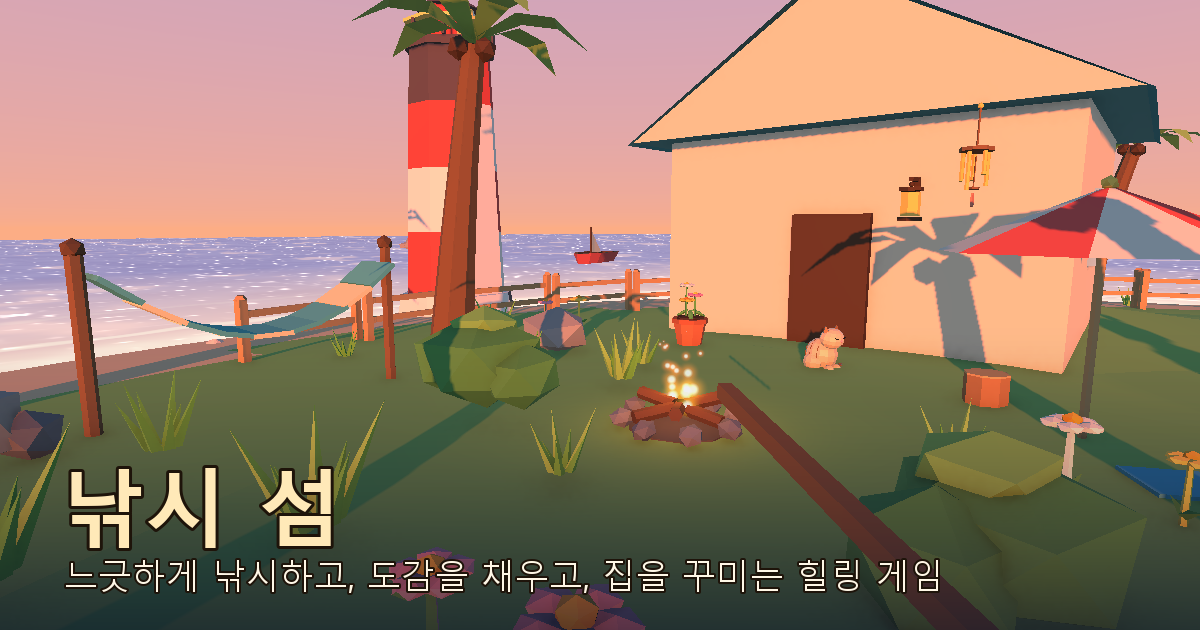
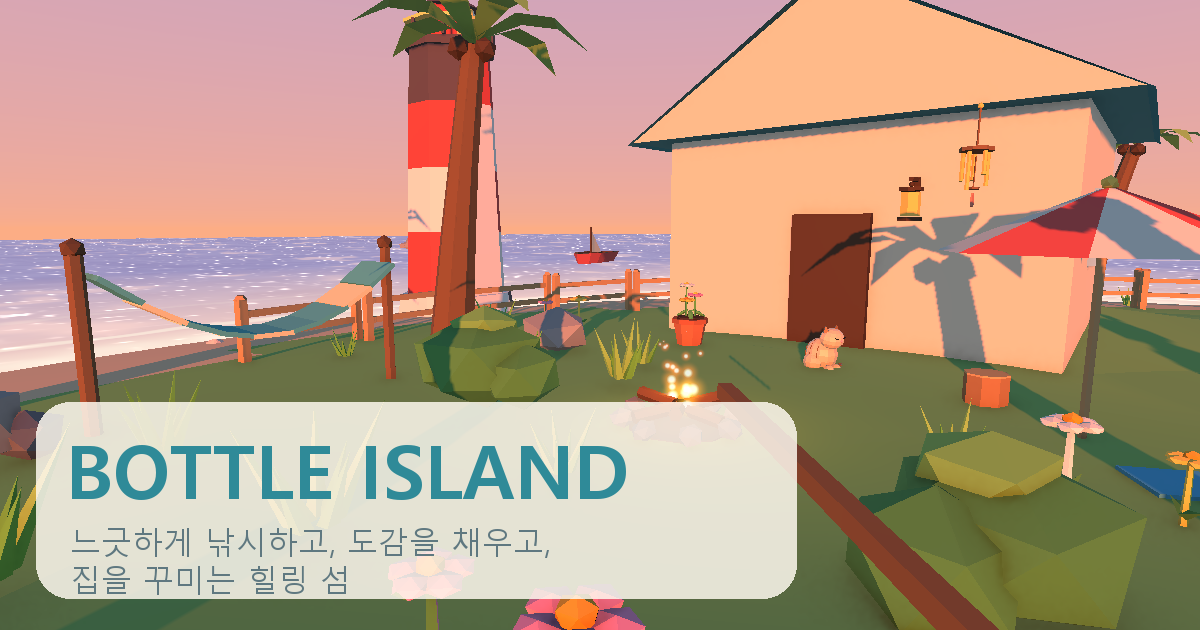
feat: rename to BOTTLE ISLAND, healing-tone web page, loading overlay until first frames (step 36)

diff --git a/fishing-game/fish game/Assets/WebGLTemplates/FishingIsland/index.html b/fishing-game/fish game/Assets/WebGLTemplates/FishingIsland/index.html
@@ -4,24 +4,32 @@
     <meta charset="utf-8">
     <meta http-equiv="Content-Type" content="text/html; charset=utf-8">
     <meta name="viewport" content="width=device-width, initial-scale=1.0">
-    <title>낚시 섬 · 힐링 낚시 게임</title>
-    <meta name="description" content="한적한 섬에서 느긋하게 낚시하는 힐링 게임. 물고기를 낚고, 도감을 채우고, 오두막을 꾸며 보세요. 브라우저에서 바로 플레이(PC).">
+    <title>BOTTLE ISLAND · 힐링 낚시 게임</title>
+    <meta name="description" content="바다 위 작은 섬에서 느긋하게 낚시하는 힐링 게임. 물고기를 낚고, 도감을 채우고, 오두막을 꾸며 보세요. 브라우저에서 바로 플레이(PC).">
     <meta property="og:type" content="website">
-    <meta property="og:title" content="낚시 섬 · 힐링 낚시 게임">
-    <meta property="og:description" content="한적한 섬에서 느긋하게 낚시하는 힐링 게임. 브라우저에서 바로 플레이(PC).">
+    <meta property="og:title" content="BOTTLE ISLAND · 힐링 낚시 게임">
+    <meta property="og:description" content="바다 위 작은 섬에서 느긋하게 낚시하는 힐링 게임. 브라우저에서 바로 플레이(PC).">
     <meta property="og:image" content="https://fishing-game-web.vercel.app/TemplateData/preview.png">
     <meta name="twitter:card" content="summary_large_image">
     <link rel="shortcut icon" href="TemplateData/favicon.ico">
+    <link rel="preconnect" href="https://fonts.googleapis.com">
+    <link rel="preconnect" href="https://fonts.gstatic.com" crossorigin>
+    <link href="https://fonts.googleapis.com/css2?family=Fredoka:wght@500;600;700&family=Gowun+Dodum&family=Jua&display=swap" rel="stylesheet">
     <link rel="stylesheet" href="TemplateData/style.css">
   </head>
   <body>
+    <div id="sun"></div>
+    <div class="cloud c1"></div><div class="cloud c2"></div><div class="cloud c3"></div>
     <main id="page">
-      <h1 id="title">낚시 섬</h1>
+      <header id="head">
+        <h1 id="title">BOTTLE ISLAND</h1>
+        <p id="subtitle">느긋하게 낚시하고, 도감을 채우고, 집을 꾸미는 힐링 섬</p>
+      </header>
       <div id="unity-container">
         <canvas id="unity-canvas" width=1280 height=720 tabindex="-1"></canvas>
         <div id="unity-loading-bar">
           <div id="loading-card">
-            <div id="loading-title">낚시 섬으로 가는 중…</div>
+            <div id="loading-title">섬으로 가는 중…</div>
             <div id="unity-progress-bar-empty"><div id="unity-progress-bar-full"></div></div>
             <div id="loading-tip">처음엔 조금 걸려요(약 20MB). 잠시만 기다려 주세요.</div>
           </div>
@@ -29,14 +37,18 @@
         <div id="unity-warning"> </div>
       </div>
       <div id="controls">
-        <span><b>클릭</b> 시작</span><span><b>WASD</b> 이동</span><span><b>마우스</b> 시점</span><span><b>왼쪽 클릭</b> 낚시</span>
-        <span><b>1·2·3</b> 미끼</span><span><b>E</b> 말 걸기·줍기·배</span><span><b>Tab</b> 도감</span><span><b>P</b> 사진</span><span><b>M</b> 소리</span>
+        <span class="chip c-mint"><b>클릭</b> 시작</span><span class="chip c-peach"><b>WASD</b> 이동</span><span class="chip c-lemon"><b>마우스</b> 시점</span><span class="chip c-sky"><b>왼쪽 클릭</b> 낚시</span>
+        <span class="chip c-mint"><b>1·2·3</b> 미끼</span><span class="chip c-peach"><b>E</b> 말 걸기·줍기·배</span><span class="chip c-lemon"><b>Tab</b> 도감</span><span class="chip c-sky"><b>P</b> 사진</span><span class="chip c-mint"><b>M</b> 소리</span>
         <button id="unity-fullscreen-button" type="button">전체 화면</button>
       </div>
       <footer id="credits">BGM: monume · 글꼴: 나눔고딕(OFL) · 저장은 이 브라우저에 자동으로 돼요</footer>
     </main>
+    <svg id="waves" viewBox="0 0 1440 120" preserveAspectRatio="none" aria-hidden="true">
+      <path d="M0,60 C240,110 480,10 720,60 C960,110 1200,10 1440,60 L1440,120 L0,120 Z" fill="#9fdbe8" opacity=".55"/>
+      <path d="M0,80 C260,40 520,110 780,75 C1040,40 1240,100 1440,70 L1440,120 L0,120 Z" fill="#7cc8da" opacity=".5"/>
+    </svg>
     <div id="desktop-only" hidden>
-      <h2>낚시 섬</h2>
+      <h2>BOTTLE ISLAND</h2>
       <p>이 게임은 <b>PC(키보드와 마우스)</b>에서 플레이할 수 있어요.<br>컴퓨터의 브라우저로 이 주소를 열어 주세요.</p>
     </div>
     <script>
@@ -51,9 +63,9 @@
         var div = document.createElement('div');
         div.innerHTML = msg;
         warningBanner.appendChild(div);
-        if (type == 'error') div.style = 'background: red; padding: 10px; color: white;';
+        if (type == 'error') div.style = 'background: #e8584d; padding: 10px; color: white; border-radius: 10px;';
         else {
-          if (type == 'warning') div.style = 'background: yellow; padding: 10px;';
+          if (type == 'warning') div.style = 'background: #ffe9a8; padding: 10px; border-radius: 10px; color: #5a4220;';
           setTimeout(function() {
             warningBanner.removeChild(div);
             updateBannerVisibility();
@@ -64,7 +76,7 @@
 
       // 화면 크기에 맞춰 16:9 상자로 키움(최대 1600x900). 게임 안 글자·칸은 1280x720 기준으로 만들었어요.
       function fit() {
-        var w = Math.min(window.innerWidth - 24, (window.innerHeight - 150) * 16 / 9, 1600);
+        var w = Math.min(window.innerWidth - 24, (window.innerHeight - 210) * 16 / 9, 1600);
         w = Math.max(w, 480);
         canvas.style.width = w + "px";
         canvas.style.height = (w * 9 / 16) + "px";
@@ -101,7 +113,13 @@
           productVersion: {{{ JSON.stringify(PRODUCT_VERSION) }}},
           showBanner: unityShowBanner,
         };
-        document.querySelector("#unity-loading-bar").style.display = "flex";
+        var bar = document.querySelector("#unity-loading-bar");
+        bar.style.display = "flex";
+
+        // 게임이 실제로 몇 프레임 그려진 뒤(게임이 FG_Ready로 알려 줌)에 불러오는 화면을 걷는다 → 까만 첫 화면이 보이지 않게. 못 받아도 25초 뒤엔 걷음.
+        var hidden = false;
+        function hideLoading() { if (hidden) return; hidden = true; bar.classList.add("done"); setTimeout(function () { bar.style.display = "none"; }, 700); }
+        window.fgGameReady = hideLoading;
 
         var script = document.createElement("script");
         script.src = loaderUrl;
@@ -109,8 +127,10 @@
           createUnityInstance(canvas, config, (progress) => {
             document.querySelector("#unity-progress-bar-full").style.width = 100 * progress + "%";
           }).then((unityInstance) => {
-            document.querySelector("#unity-loading-bar").style.display = "none";
+            document.querySelector("#loading-title").textContent = "거의 다 왔어요…";
+            document.querySelector("#loading-tip").textContent = "섬을 꾸미는 중이에요.";
             document.querySelector("#unity-fullscreen-button").onclick = () => { unityInstance.SetFullscreen(1); };
+            setTimeout(hideLoading, 25000);
           }).catch((message) => {
             document.querySelector("#loading-title").textContent = "게임을 불러오지 못했어요";
             document.querySelector("#loading-tip").textContent = "페이지를 새로고침하거나, 최신 크롬·엣지·파이어폭스로 열어 주세요. (" + message + ")";

diff --git a/fishing-game/fish game/Assets/WebGLTemplates/FishingIsland/TemplateData/style.css b/fishing-game/fish game/Assets/WebGLTemplates/FishingIsland/TemplateData/style.css
@@ -1,24 +1,46 @@
+:root {
+  --sky1: #c9ecf7; --sky2: #e9f7f3; --sand: #fff1d4; --ink: #3f5a63; --teal: #2f8a98; --coral: #ff9a82; --coral-d: #f27f66;
+  --mint: #d7f2e3; --peach: #ffe0d2; --lemon: #fff0b8; --skyc: #d3ecfb; --cream: #fffaf0;
+}
 html, body { margin: 0; padding: 0; min-height: 100%; }
 body {
-  background: radial-gradient(ellipse at 50% 0%, #1b5a6e 0%, #0f3447 55%, #0a2233 100%) fixed;
-  color: #fdf3dc;
-  font-family: "Malgun Gothic", "Apple SD Gothic Neo", "Noto Sans KR", sans-serif;
+  background: linear-gradient(180deg, var(--sky1) 0%, var(--sky2) 55%, var(--sand) 100%) fixed;
+  color: var(--ink);
+  font-family: "Gowun Dodum", "Jua", "Malgun Gothic", "Apple SD Gothic Neo", "Noto Sans KR", sans-serif;
+  overflow-x: hidden;
 }
-#page { display: flex; flex-direction: column; align-items: center; padding: 8px 12px 10px; }
-#title { margin: 4px 0 8px; font-size: 22px; letter-spacing: 4px; font-weight: 700; color: #ffe9b8; text-shadow: 0 2px 6px rgba(0,0,0,.35); }
-#unity-container { position: relative; border-radius: 14px; overflow: hidden; box-shadow: 0 10px 40px rgba(0,0,0,.45), 0 0 0 3px rgba(255,233,184,.35); background: #0a2233; }
-#unity-canvas { display: block; background: #0a2233; }
-#unity-loading-bar { position: absolute; inset: 0; display: none; align-items: center; justify-content: center; background: linear-gradient(#1b5a6e, #0f3447); }
-#loading-card { text-align: center; padding: 24px 32px; border-radius: 16px; background: rgba(253,243,220,.1); }
-#loading-title { font-size: 26px; font-weight: 700; margin-bottom: 16px; color: #ffe9b8; }
-#unity-progress-bar-empty { width: 320px; max-width: 70vw; height: 16px; border-radius: 8px; background: rgba(255,255,255,.18); overflow: hidden; margin: 0 auto; }
-#unity-progress-bar-full { width: 0%; height: 100%; border-radius: 8px; background: linear-gradient(90deg, #ffd35a, #ffb347); }
-#loading-tip { margin-top: 14px; font-size: 14px; opacity: .85; }
+#sun { position: fixed; right: 8vw; top: 6vh; width: 120px; height: 120px; border-radius: 50%; background: radial-gradient(circle, #fff7cf 0%, #ffe9a0 55%, rgba(255,233,160,0) 72%); opacity: .9; pointer-events: none; }
+.cloud { position: fixed; background: #fff; border-radius: 60px; opacity: .75; pointer-events: none; filter: blur(.5px); animation: drift linear infinite; }
+.cloud::before, .cloud::after { content: ""; position: absolute; background: #fff; border-radius: 50%; }
+.c1 { width: 120px; height: 34px; top: 12vh; left: -150px; animation-duration: 90s; }
+.c1::before { width: 50px; height: 50px; left: 18px; top: -24px; } .c1::after { width: 64px; height: 64px; left: 52px; top: -34px; }
+.c2 { width: 90px; height: 26px; top: 26vh; left: -120px; animation-duration: 120s; animation-delay: -40s; opacity: .6; }
+.c2::before { width: 38px; height: 38px; left: 12px; top: -18px; } .c2::after { width: 48px; height: 48px; left: 38px; top: -26px; }
+.c3 { width: 150px; height: 40px; top: 6vh; left: -180px; animation-duration: 140s; animation-delay: -90s; opacity: .55; }
+.c3::before { width: 60px; height: 60px; left: 22px; top: -30px; } .c3::after { width: 78px; height: 78px; left: 66px; top: -42px; }
+@keyframes drift { from { transform: translateX(0); } to { transform: translateX(calc(100vw + 360px)); } }
+#waves { position: fixed; left: 0; right: 0; bottom: 0; width: 100%; height: 14vh; pointer-events: none; z-index: 0; }
+#page { position: relative; z-index: 1; display: flex; flex-direction: column; align-items: center; padding: 8px 12px 10px; }
+#head { text-align: center; margin: 4px 0 10px; }
+#title { margin: 0; font-family: "Fredoka", "Jua", sans-serif; font-weight: 600; font-size: 38px; letter-spacing: 6px; color: var(--teal); text-shadow: 0 3px 0 #fff, 0 6px 14px rgba(47,138,152,.25); }
+#subtitle { margin: 2px 0 0; font-size: 15px; color: #6a8a91; }
+#unity-container { position: relative; border-radius: 26px; overflow: hidden; background: var(--sky1); border: 6px solid var(--cream); box-shadow: 0 14px 40px rgba(47,138,152,.28), 0 2px 0 rgba(255,255,255,.8) inset; box-sizing: content-box; }
+#unity-canvas { display: block; background: linear-gradient(var(--sky1), var(--sky2)); }
+#unity-loading-bar { position: absolute; inset: 0; display: none; align-items: center; justify-content: center; background: linear-gradient(180deg, #bfe8f4 0%, #e3f6f1 60%, #fff1d4 100%); transition: opacity .7s ease; z-index: 3; }
+#unity-loading-bar.done { opacity: 0; pointer-events: none; }
+#loading-card { text-align: center; padding: 26px 38px; border-radius: 24px; background: rgba(255,250,240,.78); box-shadow: 0 8px 26px rgba(47,138,152,.18); }
+#loading-title { font-family: "Jua", "Gowun Dodum", sans-serif; font-size: 28px; margin-bottom: 16px; color: var(--teal); }
+#unity-progress-bar-empty { width: 320px; max-width: 70vw; height: 16px; border-radius: 10px; background: #d9ece9; overflow: hidden; margin: 0 auto; }
+#unity-progress-bar-full { width: 0%; height: 100%; border-radius: 10px; background: linear-gradient(90deg, #ffc98a, var(--coral)); transition: width .2s; }
+#loading-tip { margin-top: 14px; font-size: 14px; color: #6a8a91; }
 #unity-warning { position: absolute; left: 50%; top: 5%; transform: translate(-50%); display: none; z-index: 5; }
-#controls { margin-top: 10px; display: flex; flex-wrap: wrap; gap: 6px 16px; justify-content: center; align-items: center; font-size: 14px; max-width: 1100px; }
-#controls b { color: #ffd35a; margin-right: 4px; }
-#unity-fullscreen-button { cursor: pointer; background: #ffd35a; color: #3b2815; border: 0; border-radius: 14px; padding: 5px 14px; font-weight: 700; font-family: inherit; }
-#unity-fullscreen-button:hover { background: #ffe08a; }
-#credits { margin-top: 8px; font-size: 12px; opacity: .6; }
-#desktop-only { padding: 15vh 24px; text-align: center; line-height: 1.7; }
-#desktop-only h2 { color: #ffe9b8; font-size: 30px; letter-spacing: 4px; }
+#controls { margin-top: 12px; display: flex; flex-wrap: wrap; gap: 8px 10px; justify-content: center; align-items: center; font-size: 14px; max-width: 1100px; }
+.chip { padding: 5px 13px; border-radius: 16px; color: var(--ink); box-shadow: 0 2px 0 rgba(63,90,99,.12); }
+.chip b { color: #b5603f; margin-right: 4px; font-family: "Jua", sans-serif; font-weight: 400; }
+.c-mint { background: var(--mint); } .c-peach { background: var(--peach); } .c-lemon { background: var(--lemon); } .c-sky { background: var(--skyc); }
+#unity-fullscreen-button { cursor: pointer; background: var(--coral); color: #fff; border: 0; border-radius: 18px; padding: 6px 18px; font-family: "Jua", sans-serif; font-size: 15px; box-shadow: 0 3px 0 var(--coral-d); }
+#unity-fullscreen-button:hover { background: #ffab94; }
+#unity-fullscreen-button:active { transform: translateY(2px); box-shadow: 0 1px 0 var(--coral-d); }
+#credits { margin-top: 10px; font-size: 12px; color: #7d9aa0; }
+#desktop-only { position: relative; z-index: 1; padding: 15vh 24px; text-align: center; line-height: 1.7; }
+#desktop-only h2 { font-family: "Fredoka", sans-serif; color: var(--teal); font-size: 32px; letter-spacing: 5px; }

diff --git a/fishing-game/fish game/Assets/Editor/PhotoTest.cs b/fishing-game/fish game/Assets/Editor/PhotoTest.cs
@@ -22,7 +22,7 @@ public static class PhotoTest
         if (SessionState.GetBool(Flag, false)) EditorApplication.update += Tick;
     }
 
-    static string Dir { get { return Path.Combine(System.Environment.GetFolderPath(System.Environment.SpecialFolder.MyPictures), "낚시섬"); } }
+    static string Dir { get { return Path.Combine(System.Environment.GetFolderPath(System.Environment.SpecialFolder.MyPictures), "BottleIsland"); } }
 
     static void Tick()
     {
@@ -33,11 +33,11 @@ public static class PhotoTest
             // 배치 모드 편집기에서는 프레임 끝 신호(WaitForEndOfFrame)가 안 와서 찍기 단계는 시험할 수 없다. 저장 단계(폴더 만들기·한글 파일 이름·PNG)만 시험한다.
             var tex = new Texture2D(8, 8); tex.SetPixel(0, 0, Color.red); tex.Apply();
             var save = typeof(PhotoMode).GetMethod("Save", System.Reflection.BindingFlags.NonPublic | System.Reflection.BindingFlags.Static);
-            Debug.Log("PHOTOTEST save=" + save.Invoke(null, new object[] { tex.EncodeToPNG(), "낚시섬_시험_" + System.DateTime.Now.ToString("HHmmss") + ".png" }));
+            Debug.Log("PHOTOTEST save=" + save.Invoke(null, new object[] { tex.EncodeToPNG(), "BottleIsland_test_" + System.DateTime.Now.ToString("HHmmss") + ".png" }));
         }
         if (frames == 120)
         {
-            var files = Directory.Exists(Dir) ? Directory.GetFiles(Dir, "낚시섬_시험_*.png") : new string[0];
+            var files = Directory.Exists(Dir) ? Directory.GetFiles(Dir, "BottleIsland_test_*.png") : new string[0];
             long size = files.Length > 0 ? new FileInfo(files[files.Length - 1]).Length : 0;
             Debug.Log("PHOTOTEST files=" + files.Length + " lastSize=" + size + " last=" + (files.Length > 0 ? files[files.Length - 1] : "-"));
             Finish();

diff --git a/fishing-game/fish game/Assets/Scripts/PhotoMode.cs b/fishing-game/fish game/Assets/Scripts/PhotoMode.cs
@@ -7,7 +7,7 @@ using UnityEngine.InputSystem;
 using UnityEngine.UI;
 
 // 사진 찍기 (GDD 9번 [확정]): P키 → 화면 글자(상태창·안내)를 빼고 풍경(낚싯대 포함)만 찍어 저장한다. 찰칵 소리 + 하얀 번쩍임 + "사진을 저장했어요!".
-// 웹: 브라우저 다운로드(PhotoDownload.jslib). PC/편집기: 내 사진 폴더 아래 "낚시섬"에 저장. 대화창·상점·꾸미기·도감이 열려 있거나 커서가 풀려 있으면 안 찍힘.
+// 웹: 브라우저 다운로드(PhotoDownload.jslib). PC/편집기: 내 사진 폴더 아래 "BottleIsland"에 저장. 대화창·상점·꾸미기·도감이 열려 있거나 커서가 풀려 있으면 안 찍힘.
 // 게임이 시작될 때 스스로 만들어진다(장면에 올릴 것 없음).
 public class PhotoMode : MonoBehaviour
 {
@@ -49,7 +49,7 @@ public class PhotoMode : MonoBehaviour
         foreach (var c in hidden) if (c != null) c.enabled = true;
         if (tex != null)
         {
-            string name = "낚시섬_" + System.DateTime.Now.ToString("yyyyMMdd_HHmmss") + ".png";
+            string name = "BottleIsland_" + System.DateTime.Now.ToString("yyyyMMdd_HHmmss") + ".png";
             bool ok = Save(tex.EncodeToPNG(), name);
             Destroy(tex);
             Sfx.Play(SfxKind.Shutter);
@@ -68,7 +68,7 @@ public class PhotoMode : MonoBehaviour
 #if UNITY_WEBGL && !UNITY_EDITOR
             FG_DownloadPng(png, png.Length, name);
 #else
-            string dir = Path.Combine(System.Environment.GetFolderPath(System.Environment.SpecialFolder.MyPictures), "낚시섬");
+            string dir = Path.Combine(System.Environment.GetFolderPath(System.Environment.SpecialFolder.MyPictures), "BottleIsland");
             Directory.CreateDirectory(dir);
             File.WriteAllBytes(Path.Combine(dir, name), png);
 #endif

diff --git a/fishing-game/fish game/Assets/Scripts/WebReady.cs b/fishing-game/fish game/Assets/Scripts/WebReady.cs
@@ -1,0 +1,26 @@
+using System.Collections;
+using System.Runtime.InteropServices;
+using UnityEngine;
+
+// 웹 페이지의 "불러오는 화면"을 걷어도 될 때를 알려 준다(GDD 9번 공개 준비): 게임이 실제로 화면을 몇 프레임 그린 뒤 한 번 FG_Ready를 부른다.
+// 게임이 시작될 때 스스로 만들어진다(장면에 올릴 것 없음). 웹 밖(편집기·PC)에서는 아무 일도 안 한다.
+public class WebReady : MonoBehaviour
+{
+#if UNITY_WEBGL && !UNITY_EDITOR
+    [DllImport("__Internal")] static extern void FG_Ready();
+#endif
+    const int Frames = 90;   // 약 1.5초 분량의 프레임
+
+    [RuntimeInitializeOnLoadMethod(RuntimeInitializeLoadType.AfterSceneLoad)]
+    static void Init() { new GameObject("WebReady").AddComponent<WebReady>(); }
+
+    IEnumerator Start()
+    {
+        for (int i = 0; i < Frames; i++) yield return null;
+        yield return new WaitForEndOfFrame();
+#if UNITY_WEBGL && !UNITY_EDITOR
+        FG_Ready();
+#endif
+        Destroy(gameObject);
+    }
+}

diff --git a/fishing-game/docs/GDD.md b/fishing-game/docs/GDD.md
@@ -119,6 +119,7 @@
 - [확정, 사용자 선택 2026-10-14] 집 꾸미기(장식 5개 + 오두막 키우기, 목록·가격은 사용자가 "그걸로 ㄱㄱ"로 승인): 바틀이 대화창에서 **F**를 누르면 "집 꾸미기" 창이 열리고(시간 정지 유지), 숫자 키 1~6으로 삼. F/Esc로 닫기. 산 것은 바로 섬에 나타나고 저장됨. 장식(정해진 자리, 임시 도형): ①화분 80원(오두막 문 옆) ②해변 파라솔 100원(오두막 앞 오른쪽) ③풍경 120원(처마, 바람에 흔들리고 10~22초마다 "딩" 소리, 3D) ④모닥불 150원(오두막 앞, 불꽃 파티클+밤엔 불빛이 더 밝음) ⑤해먹 200원(오두막 서쪽, 기둥 두 개 사이, 살랑거림). 오두막 키우기(⑥): 1단계 낡은 오두막(지금) → 2단계 튼튼한 오두막 300원(새 지붕 색 청록, 굴뚝+연기) → 3단계 예쁜 오두막 800원(지붕 깃발, 문 옆 등불, 밤에 등불·창문 불빛). 바틀이 대화창 안내 칸은 4개로 늘고 글자를 줄임("왼쪽 클릭|팔기", "오른쪽 클릭|낚싯대 n원", "F|꾸미기", "E / Esc|닫기"). 블렌더 모델은 나중에(임시 도형).
 - [확정, 사용자 선택 2026-10-14] 사진 찍기: **P키**. **깨끗한 사진**(사용자 선택): 상태창·안내·십자선 같은 화면 글자는 빼고 풍경(낚싯대 포함)만 찍음. 찰칵 소리 + 하얀 번쩍임(0.4초) + "사진을 저장했어요!"(3초). 웹은 브라우저 다운로드(`낚시섬_날짜_시간.png`, 브라우저가 다운로드 허용을 물을 수 있음), PC는 내 사진 폴더의 "낚시섬"에 저장. 대화창·상점·꾸미기·도감이 열려 있거나 커서가 풀려 있으면 안 찍히고, 연속 촬영은 1.2초 간격. 안내 글자에 "P 사진" 추가.
 - [확정, 사용자 "1(공개 준비) / bgm 공개해도 상관없음" 2026-10-15] 공개 준비: **BGM은 공개해도 된다고 사용자가 확인함**(이전의 "BGM 이용 조건 확인 전 공개 금지" 조건 해제). 공개용 웹 페이지 틀(`Assets/WebGLTemplates/FishingIsland`): 한국어 제목 "낚시 섬 · 힐링 낚시 게임", 설명·공유 미리보기(og:image `TemplateData/preview.png`, 석양 사진+제목), 즐겨찾기 아이콘(고등어), 16:9 상자(창 크기에 맞춰 최대 1600×900), 불러오는 화면("낚시 섬으로 가는 중…"+진행 막대), 아래에 조작법 한 줄·전체 화면 버튼·크레딧(BGM monume, 글꼴 나눔고딕 OFL), 터치 기기(폰·태블릿)에는 "PC에서 플레이" 안내만 보여 주고 게임은 안 불러옴. 유니티 로고 첫 화면(Made with Unity)은 개인 라이선스라 그대로. 제품 이름·회사 이름은 그대로(바꾸면 브라우저 저장이 새로 시작됨). 저장소 `README.md` 추가. **링크를 실제로 공개(누구나 접속)로 바꾸는 것은 사용자가 마지막에 확인한 뒤에만**(Vercel 보호 해제).
+- [확정, 사용자 "이름이 낚시섬이 뭐니 좀 구리다 / BOT P ISLAND로 가자" → 철자 확인에서 2번 **BOTTLE ISLAND** 선택 2026-10-15] 게임 이름: **BOTTLE ISLAND**(바틀이의 섬). 웹 페이지 제목·공유 미리보기·README에 반영, 사진 파일은 `BottleIsland_날짜_시간.png`(PC는 사진 폴더의 "BottleIsland"). 제품 이름(PlayerSettings)은 그대로 둠(저장 보존). **디자인 톤**(사용자 "전체적으로 디자인 톤이나 폰트가 너무 칙칙해, 힐링되는 느낌으로"): 웹 페이지를 하늘색→크림 그라데이션, 떠다니는 구름·해·물결, 둥근 글꼴(Fredoka·주아·고운돋움, 구글 웹폰트), 파스텔 칩·코랄색 버튼, 크림색 둥근 게임 테두리로 다시 디자인. **불러오는 화면은 게임이 실제로 화면을 그린 뒤(FG_Ready)에 걷어서 까만 첫 화면이 안 보이게**(25초 뒤엔 어쨌든 걷음). 게임 안 화면(상태창·안내 등) 톤은 사용자에게 범위를 확인한 뒤 진행.
 - [확정, 사용자 "도감 텍스트나 디테일이 좀 심하다, 고도화해야겠다" → 1번(보기 좋게만) 2026-10-15] 도감 고도화: 정보는 그대로 두고 모양만 다듬음. 둥근 크림색 판(대화창·꾸미기 창과 같은 색·테두리) 위쪽에 "도감" 제목과 진행 막대("n / 16"). 왼쪽 상세 카드: 큰 그림(등급 색 바탕), 이름, 등급 칩(먼 바다 물고기는 "먼 바다" 칩 추가), "잡은 수 / 최고 기록 / 판매 값" 세 줄(못 잡았으면 "—"). 오른쪽 4×4 칸: 등급 색 테두리의 둥근 카드, 못 잡은 물고기는 회색 테두리+어두운 실루엣+"???", 선택한 칸은 커지고 진한 테두리. 아래에 안내("칸을 클릭하면 … Tab / Esc: 닫기"). 설명 글·시간대 아이콘 같은 정보 추가는 안 함(사용자가 1번 선택).
 - [확정, 사용자 선택 "이동은 순간 이동(1번)", "이 4종과 규칙으로 ㄱㄱ" 2026-10-15] 먼 바다 낚시터: 부두 옆에 매어 둔 작은 배(부두 중간, 남쪽)에 2.6m 안에서 다가가 **E** → 화면이 어두워졌다 밝아지며 먼 바다의 작은 배 위(섬에서 약 100m)로 순간 이동(요금 없음). 먼 바다 배 가까이에서 **E** → 부두로 돌아옴. 낚싯줄이 나가 있는 동안(대기 상태가 아닐 때)엔 안 탐. 먼 바다에서는 **먼 바다 전용 4종만** 나오고(위 표 13~16번, 도감 "n/16"), 그 4종은 섬 근처에서는 안 나옴. 크기 범위(임시): 참치 60~150, 청새치 80~200, 초롱아귀 30~80, 별고래 100~300cm. 판매 값은 기존 등급 규칙 그대로(흔함 10/보통 30/희귀 100) — 돈벌이가 아니라 도감 채우기가 중심. 낮에는 희귀가 없어 보통/흔함만 나옴(기존 폴백). 안내 글자에 "E: 배로 돌아가기", 도감 설명에 "먼 바다" 표시. 시작은 늘 섬(저장 안 함). 그림은 블렌더 로우폴리 512px(`Assets/Fish/Fish_13~16`), 배는 블렌더 모델(`Sea_Rowboat.fbx`).
 - [확정, 사용자 "이어서 진행" 2026-10-15; 다듬기는 내가 직접 거슬린 점만 먼저 손봄] 다듬기 ①: (가) 장식(화분·파라솔·모닥불·해먹)을 사면 그 둘레의 풀·꽃·덤불·바위(섬 소품 Decor, 해변 제외)를 치움 — 장식 밖으로 풀이 삐져나오던 것. (나) 흐림·비의 회색빛을 더 짙게(하늘 0.8→0.95, 안개 0.75→0.9, 바다 0.5→0.6). (다) 달빛고기를 푸른 은빛 몸+노란 초승달 꼬리로 다시 그려 복어(노란 둥근 몸)와 구별. 사용자가 플레이하며 거슬린 점(가격·확률·크기 범위·소리 크기 등)을 알려 주면 그때 이어서 조정.

diff --git a/fishing-game/review/2026-10-15_step36_rename_page.md b/fishing-game/review/2026-10-15_step36_rename_page.md
@@ -1,0 +1,20 @@
+# 검수: 36단계 게임 이름 BOTTLE ISLAND + 힐링 웹 페이지 (2026-10-15)
+
+판정: **통과**
+
+## 확인한 것
+- GDD 확정 항목(BOTTLE ISLAND, 톤, FG_Ready) 있음. 제품 이름(productName=fish game, companyName=DefaultCompany) 그대로.
+- 제목·og:title·README·사진 이름(PhotoMode/PhotoTest) 모두 BottleIsland로 통일. 옛 이름 "낚시 섬/낚시섬" 남은 곳 없음.
+- 글꼴: 구글 웹폰트 + 맑은 고딕 등 대체 글꼴 줄이 있어 오프라인에서도 레이아웃 유지.
+- 불러오는 화면: window.fgGameReady 또는 25초 뒤 걷힘, hideLoading은 한 번만 실행(idempotent). 오류 시 안내 문구 표시. 모바일은 불러오지 않고 안내만.
+- WebReady.cs: DllImport는 UNITY_WEBGL && !UNITY_EDITOR 안에서만, 90프레임 뒤 한 번 호출 후 자기 삭제, 편집기 영향 없음. jslib: mergeInto 정상, fgGameReady 없어도 안전.
+- 애니메이션은 CSS(구름 3개 translate)뿐이라 가벼움. 칩 글자색 대비 충분.
+- preview.png: 게임 장면 + 제목, 글자 잘 읽힘.
+- 빌드 결과물 index.html: 새 제목 있음, {{{ }}} 매크로 0개.
+- Vercel 설정 변경 파일 없음(이번 단계에서 공개 전환 안 함).
+
+## 참고(반려 사유 아님)
+1. og:image가 fishing-game-web.vercel.app 주소라, 비공개인 동안은 공유 미리보기가 안 보일 수 있어요(공개 때 해결).
+2. 25초 보험 타이머는 게임 로딩이 끝난 뒤에 시작돼요. 로딩이 아예 멈추면 오류 문구가 대신 보여요(의도대로).
+3. 빌드 .unityweb이 압축이라 FG_Ready 포함 여부는 파일 검색으로 못 봤어요. 실제 플레이로 까만 화면이 사라지는지 사용자 확인 필요.
+4. fit()의 210px 여백은 새 헤더 높이 기준 추정치. 작은 창에서 스크롤 생기는지 눈으로 확인 권장.

diff --git a/fishing-game/changelog/2026-10-12.md b/fishing-game/changelog/2026-10-12.md
@@ -901,3 +901,8 @@
 - 겪은 문제: 제품 이름을 바꾸면 웹 저장(PlayerPrefs)이 새로 시작돼 기존 플레이 기록이 사라질 수 있어 이름은 그대로 두고 페이지 제목만 한국어로 직접 씀. 터치 기기에서는 키보드·마우스가 없어 게임을 안 불러오고 안내만 보여 줌.
 - 메모: 링크 공개(Vercel 보호 해제)는 사용자에게 마지막으로 한 번 더 확인받은 뒤에 함.
 
+## 36단계 — 이름 BOTTLE ISLAND + 힐링 톤 웹 페이지 + 까만 첫 화면 해결
+- 무엇: 게임 이름을 **BOTTLE ISLAND**로(웹 제목·공유 미리보기 이미지·README·사진 파일/폴더 이름 `BottleIsland`). 웹 페이지 틀 다시 디자인: 하늘색→크림 배경, 떠다니는 구름·해·물결, 둥근 글꼴(Fredoka·주아·고운돋움, 구글 웹폰트), 파스텔 칩·코랄 버튼, 크림색 둥근 게임 테두리, 부드러운 불러오는 카드. `WebReady.cs`+`WebReady.jslib`: 게임이 실제로 90프레임을 그린 뒤 페이지에 알려서 불러오는 화면을 걷음(25초 뒤엔 어쨌든 걷음) → 첫 화면이 까맣게 비어 보이던 문제 해결.
+- 왜: 사용자가 보낸 화면(게임 상자가 까맣게 빔)과 함께 "이름이 낚시섬이 뭐니 좀 구리다, BOT P ISLAND로 가자 / 전체적으로 디자인 톤이나 폰트가 너무 칙칙해, 힐링되는 느낌으로"라고 함. 철자는 확인 질문으로 "BOTTLE ISLAND"로 확정.
+- 메모: 게임 안 화면(상태창·안내 판 등 어두운 반투명 판, 나눔고딕)은 아직 그대로라 톤이 어울리지 않음 → 사용자에게 범위 확인 후 진행. 제품 이름(PlayerSettings)은 저장 보존을 위해 그대로.
+

diff --git a/fishing-game/README.md b/fishing-game/README.md
@@ -1,4 +1,4 @@
-# 낚시 섬 (Fishing Island)
+# BOTTLE ISLAND
 
 한적한 섬에서 느긋하게 낚시하는 1인칭 힐링 게임. 브라우저(PC)에서 바로 플레이해요.
 
